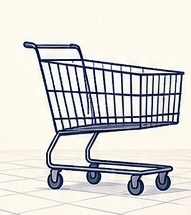
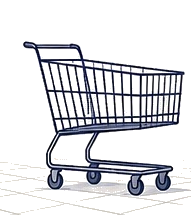
Restyle riddle card to match site theme and narrow it

diff --git a/_pages/students.html b/_pages/students.html
@@ -23,16 +23,16 @@ author_profile: true
   <li><a href="https://kevinlu4588.github.io/">Kevin Lu</a> (PhD student, Northeastern University)</li>
 </ul>
 
-<div style="max-width: 520px; margin-top: 35px; background: #fefaef; border: 1.5px solid #d0d8e4; border-radius: 10px; padding: 26px 28px; line-height: 1.7; color: #3a4f6a;">
-  <div style="font-size: 12px; font-weight: 700; letter-spacing: 2.5px; text-transform: uppercase; color: #2c5282; margin-bottom: 14px;">A riddle</div>
-  <div style="display: flex; align-items: center; gap: 20px;">
+<div style="max-width: 420px; margin-top: 35px; background: #ffffff; border: 1px solid #e4e4e4; border-radius: 6px; padding: 20px 22px; font-size: 0.9em;">
+  <p style="font-size: 0.8em; font-weight: bold; letter-spacing: 2px; text-transform: uppercase; color: #52adc8; margin: 0 0 12px;">A riddle</p>
+  <div style="display: flex; align-items: center; gap: 16px;">
     <div style="flex: 1; min-width: 0;">
-      <p style="margin: 0 0 12px;">You arrive at a supermarket to pick up your friend.</p>
-      <p style="margin: 0 0 12px;">A customer is currently checking out. You wait until they finish and ask how long the checkout took.</p>
-      <p style="margin: 0 0 12px; padding-left: 14px; border-left: 2.5px solid #2c5282; font-style: italic; color: #4a6280;">&ldquo;Ten minutes,&rdquo; they reply.</p>
+      <p style="margin: 0 0 10px;">You arrive at a supermarket to pick up your friend.</p>
+      <p style="margin: 0 0 10px;">A customer is currently checking out. You wait until they finish and ask how long the checkout took.</p>
+      <p style="margin: 0 0 10px; padding-left: 12px; border-left: 2px solid #52adc8; font-style: italic;">&ldquo;Ten minutes,&rdquo; they reply.</p>
       <p style="margin: 0;">At that moment, your friend begins checking out.</p>
     </div>
-    <img src="/images/riddle_cart.png" alt="Shopping cart" style="width: 130px; flex-shrink: 0;">
+    <img src="/images/riddle_cart.png" alt="Shopping cart" style="width: 110px; flex-shrink: 0;">
   </div>
-  <p style="margin: 14px 0 0; padding-top: 13px; border-top: 1px solid #d0d8e4; font-weight: 700; color: #2c5282;">What is the expected time until your friend is done?</p>
+  <p style="margin: 12px 0 0; padding-top: 11px; border-top: 1px solid #e4e4e4; font-weight: bold;">What is the expected time until your friend is done?</p>
 </div>
